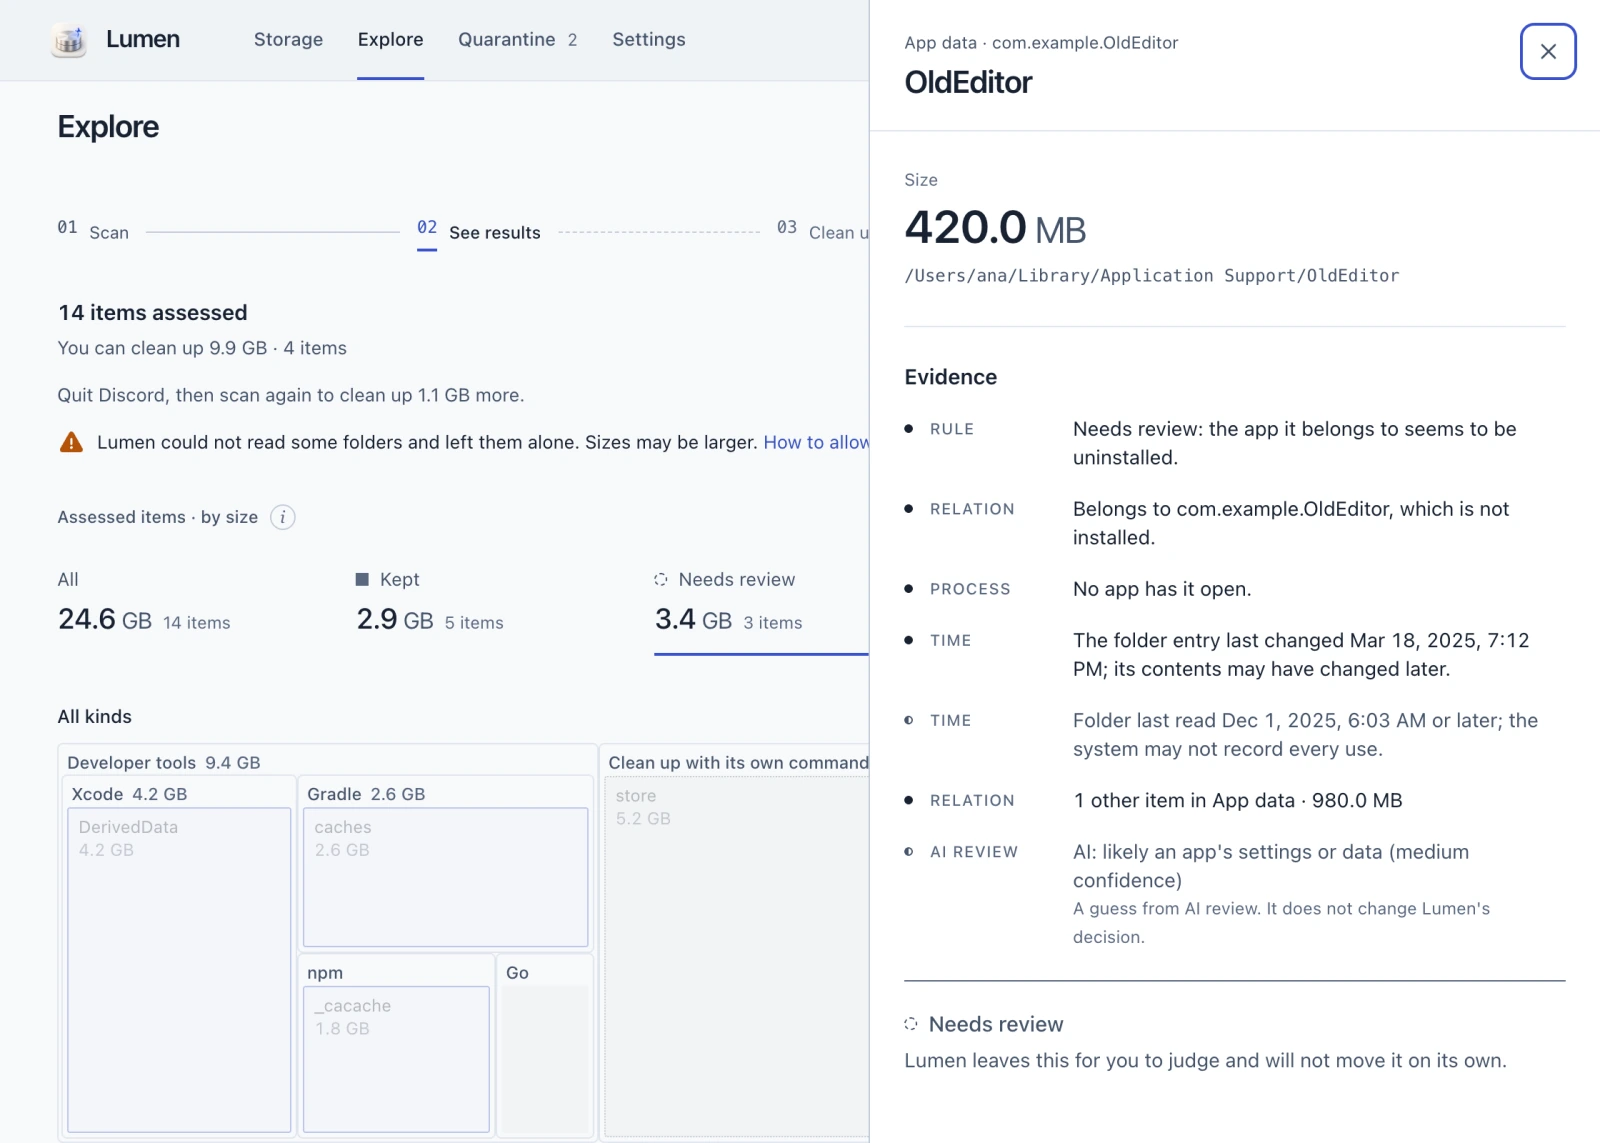
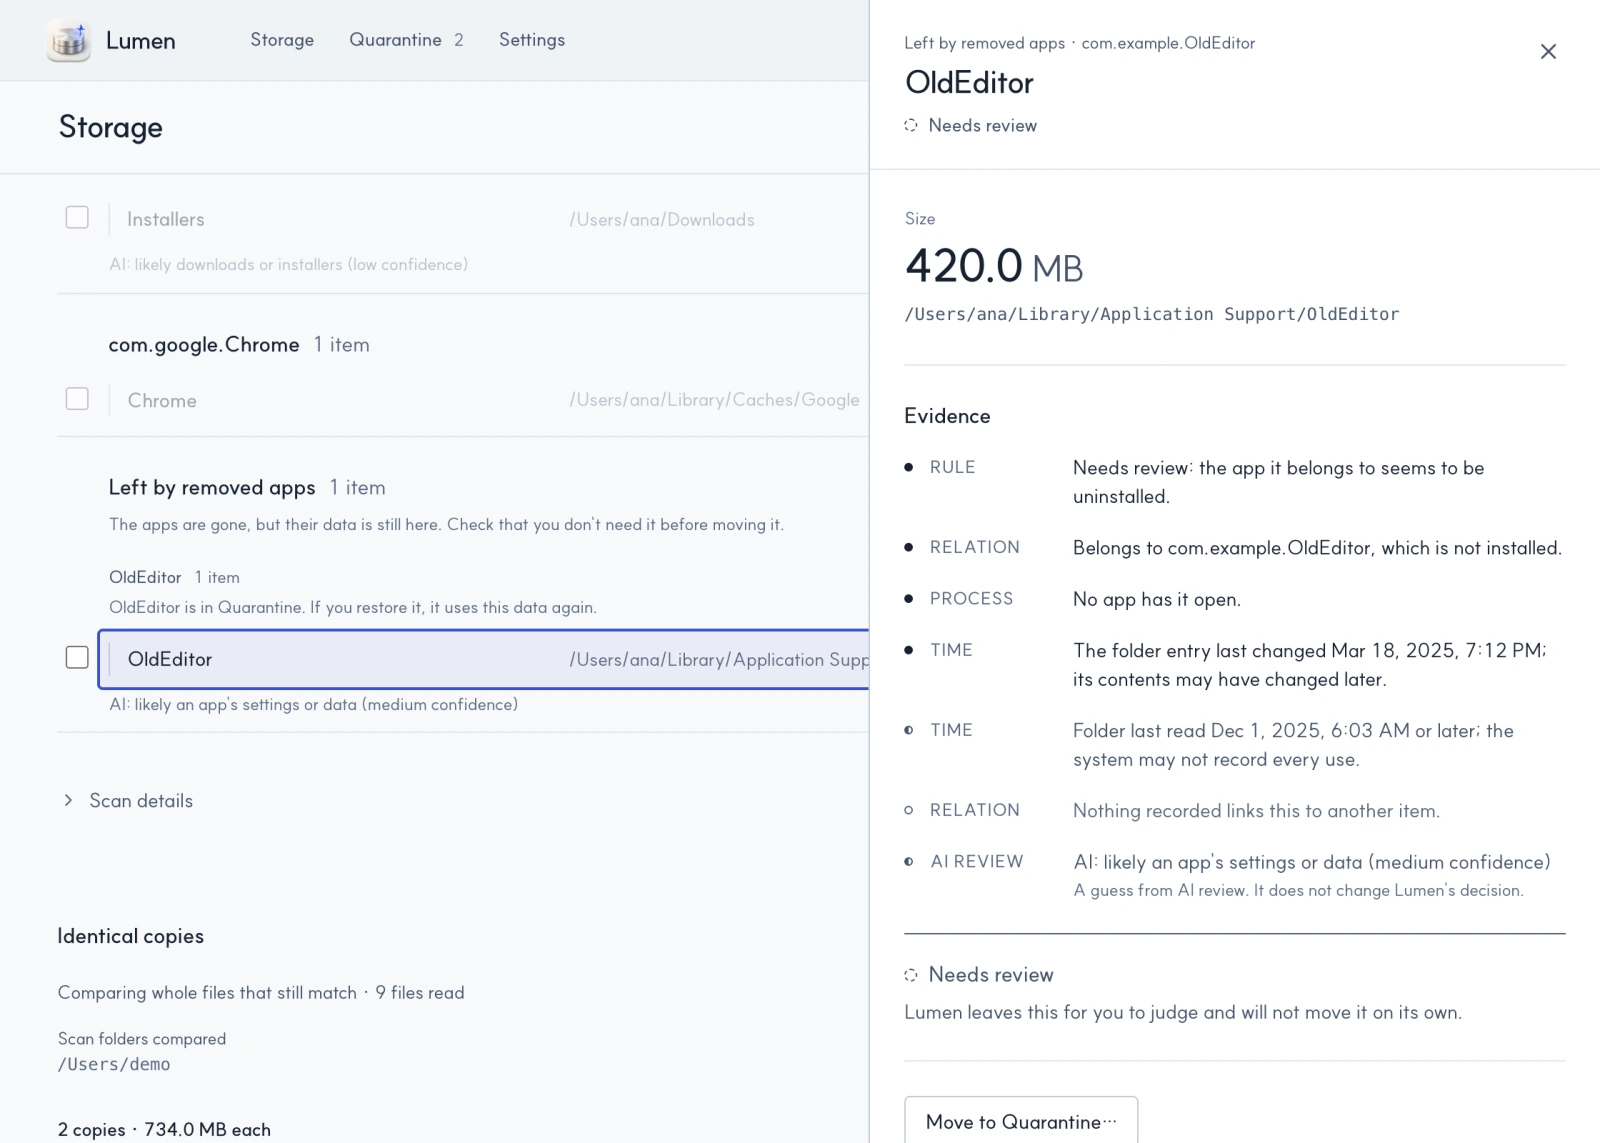
docs: retake README and website screens for the one Storage page
Overview, Explore and Apps became one Storage page grouped by owner
(ADR-0069), so the Explore and Overview captures showed screens that no
longer exist. The capture script now photographs the Storage list by
owner (storage, replacing clean-up), the status filter and map (map,
replacing overview), an item's details sheet and Quarantine. It scrolls
only the page's own scroll area, hides scrollbars and clicks with pointer
events so no focus ring appears. README alt text and captions in every
language, the site's alt text and site-illustrations.md describe the new
images.

diff --git a/apps/site/src/i18n/ru.ts b/apps/site/src/i18n/ru.ts
@@ -17,7 +17,7 @@ export const ru: Messages = {
     requirements: "macOS 13+ · Windows 10 22H2+ · Linux x86_64",
   },
   showcase: {
-    main: "Страница «Обзор» Lumen с примерами: состав хранилища по решениям, 9,9 ГБ предложено к очистке среди данных инструментов разработчика и кэша приложений, а для некоторых элементов показаны команды самих приложений.",
+    main: "Страница «Хранилище» Lumen с примерами: элементы сгруппированы по владельцу, например Xcode, pnpm и Gradle; предложенные к очистке 4 элемента (9,9 ГБ) уже отмечены, а для некоторых элементов показаны команды самих инструментов.",
   },
   howTo: {
     title: "Как пользоваться",

diff --git a/apps/site/src/i18n/ko.ts b/apps/site/src/i18n/ko.ts
@@ -19,7 +19,7 @@ export const ko: Messages = {
     requirements: "macOS 13+ · Windows 10 22H2+ · Linux x86_64",
   },
   showcase: {
-    main: "예시 데이터를 보여 주는 Lumen 탐색 화면. 판단별 용량 구성과 개발 도구·앱 캐시의 정리 제안 9.9 GB를 보여 주고, 도구가 직접 정리해야 하는 항목은 명령과 함께 보여 줘요.",
+    main: "예시 데이터를 보여 주는 Lumen 저장 공간 화면. Xcode, pnpm, Gradle처럼 공간을 쓰는 앱과 도구별로 항목을 묶어 보여 줘요. Lumen이 정리를 제안한 항목은 미리 체크해 둬서 “정리하기 · 4개 9.9 GB”로 한 번에 격리함에 옮길 수 있어요. 도구가 직접 정리해야 하는 항목은 명령과 함께 보여 줘요.",
   },
   howTo: {
     title: "사용 방법",

diff --git a/apps/site/src/i18n/ja.ts b/apps/site/src/i18n/ja.ts
@@ -17,7 +17,7 @@ export const ja: Messages = {
     requirements: "macOS 13+ · Windows 10 22H2+ · Linux x86_64",
   },
   showcase: {
-    main: "サンプルデータを使ったLumenの「探索」画面です。判断別のストレージ内訳、開発ツールとアプリのキャッシュで整理を提案する9.9 GB、ツール自身で整理する項目のコマンドを表示します。",
+    main: "サンプルデータを使ったLumenの「ストレージ」画面です。Xcode、pnpm、Gradle など項目の持ち主ごとにまとめ、整理を提案する4項目（9.9 GB）にあらかじめチェックを入れ、ツール自身で整理する項目のコマンドを表示します。",
   },
   howTo: {
     title: "使い方",

diff --git a/apps/site/src/i18n/fr.ts b/apps/site/src/i18n/fr.ts
@@ -17,7 +17,7 @@ export const fr: Messages = {
     requirements: "macOS 13+ · Windows 10 22H2+ · Linux x86_64",
   },
   showcase: {
-    main: "Page Explorer de Lumen avec des exemples : répartition du stockage selon la décision, 9,9 Go proposés dans les outils de développement et les caches d'applications, et commandes pour nettoyer les éléments à l'aide de leur outil.",
+    main: "Page Stockage de Lumen avec des exemples : éléments regroupés selon ce qui les possède, comme Xcode, pnpm et Gradle, avec les éléments proposés cochés pour nettoyer 4 éléments (9,9 Go), et commandes pour nettoyer les éléments à l'aide de leur outil.",
   },
   howTo: {
     title: "Comment l'utiliser",

diff --git a/apps/site/src/i18n/es.ts b/apps/site/src/i18n/es.ts
@@ -17,7 +17,7 @@ export const es: Messages = {
     requirements: "macOS 13+ · Windows 10 22H2+ · Linux x86_64",
   },
   showcase: {
-    main: "Página Explorar de Lumen con datos de ejemplo: espacio por decisión, 9,9 GB propuestos entre herramientas de desarrollo y cachés de aplicaciones, y comandos para que cada herramienta limpie sus propios elementos.",
+    main: "Página Almacenamiento de Lumen con datos de ejemplo: elementos agrupados por lo que los posee, como Xcode, pnpm y Gradle, con los propuestos marcados para limpiar 4 elementos (9,9 GB), y comandos para que cada herramienta limpie sus propios elementos.",
   },
   howTo: {
     title: "Cómo usarla",

diff --git a/apps/site/src/i18n/en.ts b/apps/site/src/i18n/en.ts
@@ -18,7 +18,7 @@ export const en: Messages = {
     requirements: "macOS 13+ · Windows 10 22H2+ · Linux x86_64",
   },
   showcase: {
-    main: "Lumen's Explore page with sample data: storage composition by decision, 9.9 GB proposed across developer tools and app caches, and commands for items their own tool should clean.",
+    main: "Lumen's Storage page with sample data: items grouped under what owns them, such as Xcode, pnpm and Gradle, with the proposed ones checked for Clean up · 4 items, 9.9 GB, and commands for items their own tool should clean.",
   },
   howTo: {
     title: "How to use it",

diff --git a/apps/site/src/i18n/zh-CN.ts b/apps/site/src/i18n/zh-CN.ts
@@ -16,7 +16,7 @@ export const zhCN: Messages = {
     requirements: "macOS 13+ · Windows 10 22H2+ · Linux x86_64",
   },
   showcase: {
-    main: "Lumen「探索」页面示例：按决策分类的存储空间、开发工具和应用缓存中建议清理的 9.9 GB，以及由工具自身清理的项目和对应命令。",
+    main: "Lumen「存储空间」页面示例：项目按所属的应用或工具分组（如 Xcode、pnpm、Gradle），建议清理的 4 个项目（9.9 GB）已预先勾选，并显示由工具自身清理的项目和对应命令。",
   },
   howTo: {
     title: "使用方法",

diff --git a/docs/design/site-illustrations.md b/docs/design/site-illustrations.md
@@ -97,15 +97,25 @@ The home page and the README show the app itself (`apps/site/public/screens/` an
 its sample data (a fictional `/Users/ana`, never a real disk) and the built-in-key
 option on so AI notes appear, at the desktop window's default size (1120 × 800 px,
 2x; Quarantine uses the minimum 560 px height to fit its two sample items). They were
-refreshed on 2026-10-31 after the app material pass: continuous navigation, a
-refracting navigation lens and layered command surfaces. Storage composition, evidence
-and workflows remain unchanged.
-The site displays one light Explore capture per available screenshot language:
+retaken on 2026-11-28 for the one 저장 공간 (Storage) page grouped by owner
+([ADR-0069](../decisions/0069-show-storage-in-one-place-grouped-by-owner.md),
+[storage-in-one-place.md](storage-in-one-place.md)), which replaced Overview, Explore
+and Apps. There are four captures:
+
+| Capture | Shows |
+| --- | --- |
+| `storage` | Storage scrolled to its list: owners (Xcode, pnpm, Gradle, …) with their parts, checkboxes, statuses and tool commands, under the sticky title bar and its "Clean up · 4 items, 9.9 GB…" button |
+| `map` | Storage scrolled to the status filter and the map, one tile per owner |
+| `review` | The details sheet of OldEditor's data under "Left by removed apps", with the list filtered to Needs review behind it |
+| `quarantine` | Quarantine with one of its two items selected |
+
+The site displays one light `storage` capture per available screenshot language:
 Korean and English. Other localized pages use the English capture (WebP, 1600 ×
-1143 px). Its other four Korean and English review/Quarantine assets are also
-refreshed; they are not additional home-page sections. The README uses eight English PNGs:
-Explore, Storage and the evidence inspector at 2240 × 1600 px, and Quarantine at
-2240 × 1120 px, each in light and dark.
+1143 px). The Korean and English `review` and `quarantine` WebPs are also refreshed;
+they are not additional home-page sections. The README uses eight English PNGs:
+`storage`, `map` and `review` at 2240 × 1600 px, and `quarantine` at 2240 × 1120 px,
+each in light and dark. `storage` replaced the Explore capture `clean-up`, and `map`
+replaced the Overview capture `overview`.
 
 ### Retaking the captures
 
@@ -134,8 +144,10 @@ served fixture bootstrap to enable sample AI notes; it does not edit the app's s
 or rendered DOM, invoke the native host, access a keychain or contact an AI service.
 It checks the bootstrap shape, chooses AI review through the first-launch screen
 on the fixture transport, pins the sample clock to 2026-10-29, waits for fonts
-and expected data, and rejects runtime exceptions, external requests and horizontal
-overflow. All pictured paths belong to the fictional `/Users/ana`.
+and expected data, and rejects runtime exceptions, external requests, horizontal
+overflow and a scrolled window. It scrolls only the page's own scroll area, hides
+scrollbars through the browser's emulation, and clicks with pointer events, then moves the
+pointer away, so no keyboard focus ring or hover state appears. All pictured paths belong to the fictional `/Users/ana`.
 
 Retake the captures when screens change noticeably. Inspect the results, build the
 site and check both languages at desktop and mobile widths. Stop the temporary

diff --git a/README.es.md b/README.es.md
@@ -24,8 +24,8 @@ Solo mueve a una cuarentena reversible aquello que es seguro limpiar.
 ![Estadísticas de lenguajes](https://github-repository-language-graph-wi.vercel.app/api?username=zaewc&repo=Lumen&theme=dark&precision=6)
 
 <picture>
-  <source media="(prefers-color-scheme: dark)" srcset="docs/assets/readme/clean-up-dark.png">
-  <img src="docs/assets/readme/clean-up-light.png" width="840" alt="Página Explorar de Lumen con datos de ejemplo: espacio por decisión, 9,9 GB propuestos y comandos de limpieza propios de cada herramienta.">
+  <source media="(prefers-color-scheme: dark)" srcset="docs/assets/readme/storage-dark.png">
+  <img src="docs/assets/readme/storage-light.png" width="840" alt="Página Almacenamiento de Lumen con datos de ejemplo: elementos agrupados por lo que los posee, como Xcode, pnpm y Gradle, con los propuestos ya marcados para limpiar 4 elementos (9,9 GB) y el comando propio de cada herramienta para lo que debe limpiar ella.">
 </picture>
 
 </div>
@@ -55,16 +55,16 @@ Solo mueve a una cuarentena reversible aquello que es seguro limpiar.
     <td width="50%">
       <picture>
         <source media="(prefers-color-scheme: dark)" srcset="docs/assets/readme/review-dark.png">
-        <img src="docs/assets/readme/review-light.png" alt="Inspector de pruebas de un elemento: origen, ubicación, decisión de revisión y sus motivos, con una nota de IA opcional. Datos de ejemplo.">
+        <img src="docs/assets/readme/review-light.png" alt="Panel de detalles de los datos que dejó una aplicación eliminada: tamaño, ubicación, las pruebas por las que necesita revisión y una nota de IA que no cambia la decisión. Datos de ejemplo.">
       </picture>
       <p align="center"><b>Pruebas</b>: origen de un elemento y motivos de la decisión</p>
     </td>
     <td width="50%">
       <picture>
-        <source media="(prefers-color-scheme: dark)" srcset="docs/assets/readme/overview-dark.png">
-        <img src="docs/assets/readme/overview-light.png" alt="Almacenamiento con datos de ejemplo: espacio disponible, capacidad medida y último análisis agrupado por decisión.">
+        <source media="(prefers-color-scheme: dark)" srcset="docs/assets/readme/map-dark.png">
+        <img src="docs/assets/readme/map-light.png" alt="Almacenamiento con datos de ejemplo: los elementos analizados por estado y, debajo, un mapa con un bloque por propietario, según el espacio que usa.">
       </picture>
-      <p align="center"><b>Almacenamiento</b>: capacidad del disco y composición del último análisis</p>
+      <p align="center"><b>Mapa</b>: lo que encontró el último análisis, por estado y por propietario</p>
     </td>
   </tr>
   <tr>
